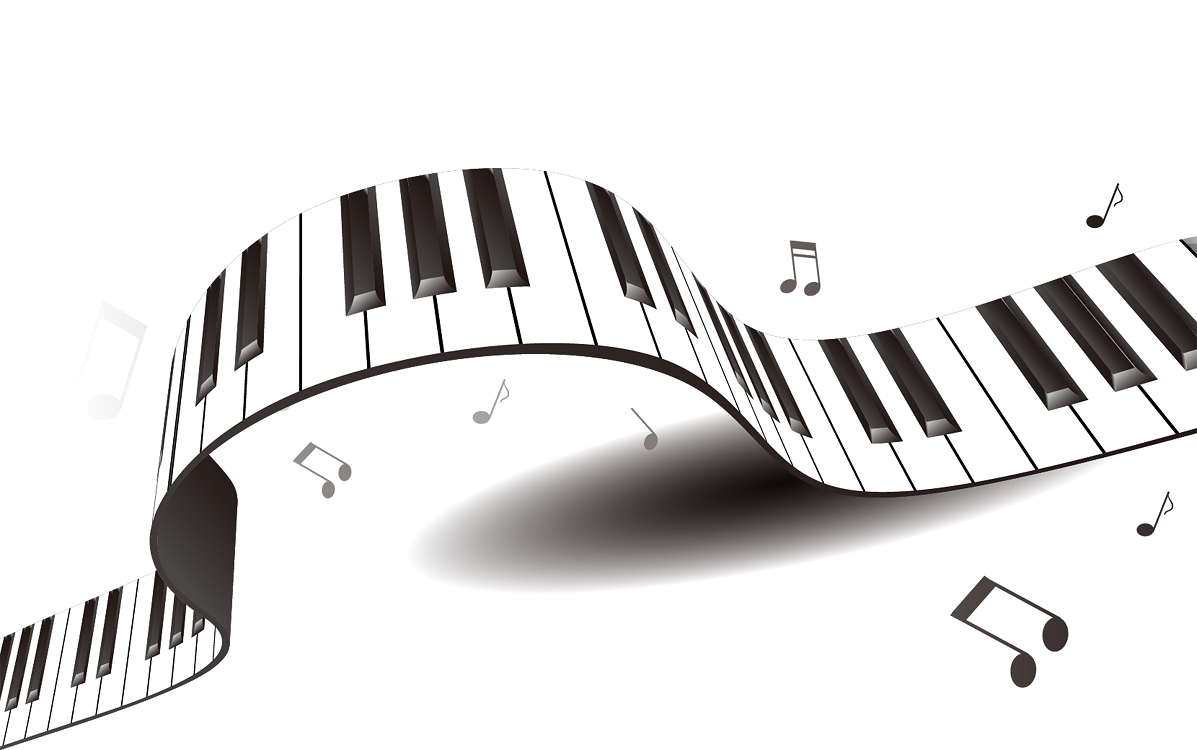
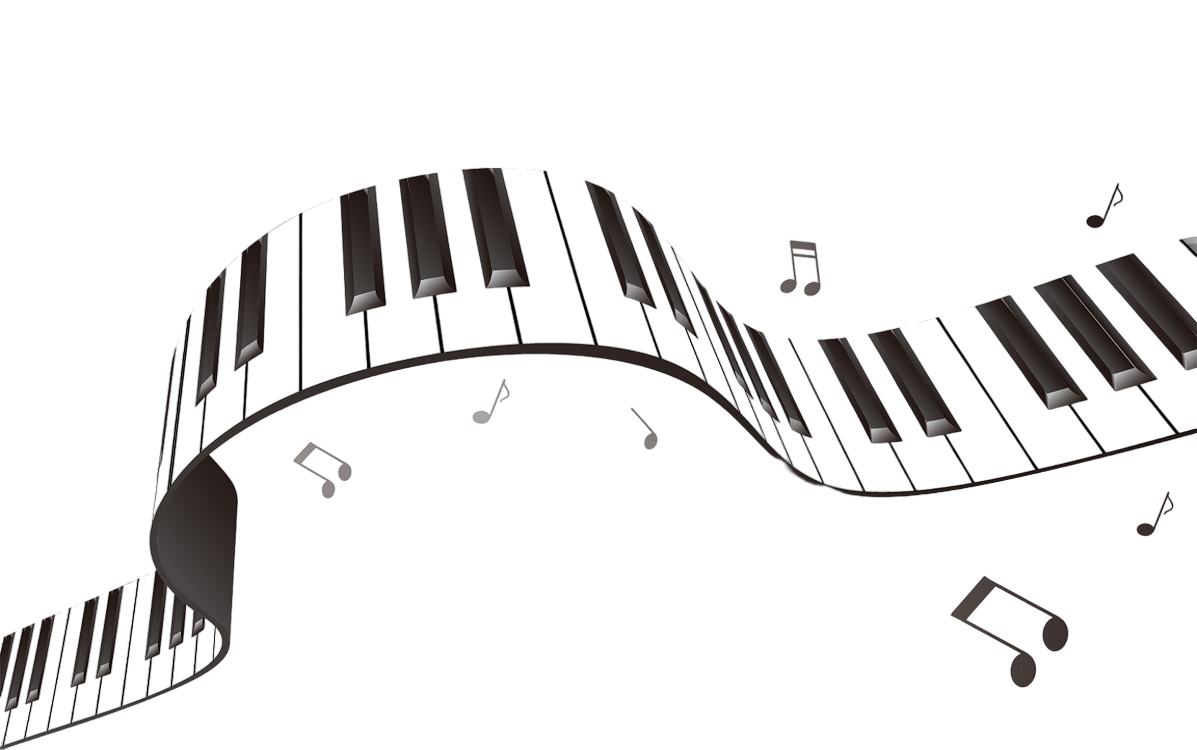
fix: filter for background image into songs__image

Changed region(s): [[0.34, 0.4907, 0.9273, 0.7973], [0.2473, 0.3987, 0.2782, 0.5213], [0.5873, 0.4293, 0.6182, 0.46]]

diff --git a/songbird/src/components/header/header.js b/songbird/src/components/header/header.js
@@ -127,20 +127,6 @@ languagues.addEventListener("click", changeLang);
 toggleTheme.addEventListener("click", changeTheme);
 
 function changeTheme (e) {
-  // // --primary-bg-color: #fffefc;
-  // --primary-bg-color: rgb(58, 58, 58);
-  // // --primary-text-color: #040404;
-  // --primary-text-color: #fffefc;
-  // --primary-accent-color: #e16259;
-  // --hover-color: #c0443b;
-  // --right-color: rgb(53, 136, 53);
-  // // --right-light-color: rgba(53, 136, 53, 0.5);
-  // --right-light-color: rgb(150, 192, 150);
-  // // --shadow-color: rgb(167, 167, 167);
-  // --shadow-color: rgb(94, 94, 94);
-  // --drop-shadow-color: rgba(0,0,0,0.3);
-  // --shadow-light-color: rgba(167, 167, 167, 0.8);
-
   if (toggleTheme.childNodes[1].childNodes[1].checked) {
     //change colors
     document.documentElement.style.setProperty("--primary-bg-color", "rgb(58, 58, 58)");
@@ -158,6 +144,7 @@ function changeTheme (e) {
     let imagesStartPage = startPage.querySelectorAll("img");
     imagesStartPage[0].classList.add("--invert");
     imagesStartPage[1].classList.add("--invert");
+    document.querySelector(".songs__image").classList.add("songs__image--invert");
     //change color image quiz-page
     changeThemeImgComposers("dark");
   } else {
@@ -177,6 +164,7 @@ function changeTheme (e) {
     let imagesStartPage = startPage.querySelectorAll("img");
     imagesStartPage[0].classList.remove("--invert");
     imagesStartPage[1].classList.remove("--invert");
+    document.querySelector(".songs__image").classList.remove("songs__image--invert");
 
     //change color image quiz-page
     changeThemeImgComposers("light");

diff --git a/songbird/src/pages/start-page/start-page.scss b/songbird/src/pages/start-page/start-page.scss
@@ -308,14 +308,29 @@
         flex: 1 1 60%;
         display: flex;
         justify-content: end;
-        
-        @media (max-width: 820px) {
-          width: 105%;
-          background-image: url("./../../assets/images/listen-music-4.png");
-          background-size: cover;
-          background-repeat: no-repeat;
-          background-position: center -7.6vw;
+        position: relative;
+
+        &::before {
+          
+          @media (max-width: 820px) {
+            content: "";
+            height: 100%;
+            position: absolute;
+            left: -117px;
+            right: -105px;
+            top: 0;
+            background-image: url("./../../assets/images/listen-music-4.png");
+            background-size: cover;
+            background-repeat: no-repeat;
+            background-position: center -7.6vw;
+            background-color: unset;
+          }
         }
+
+        &--invert::before {
+          filter: invert(90%);
+        }
+        
 
     }
 
